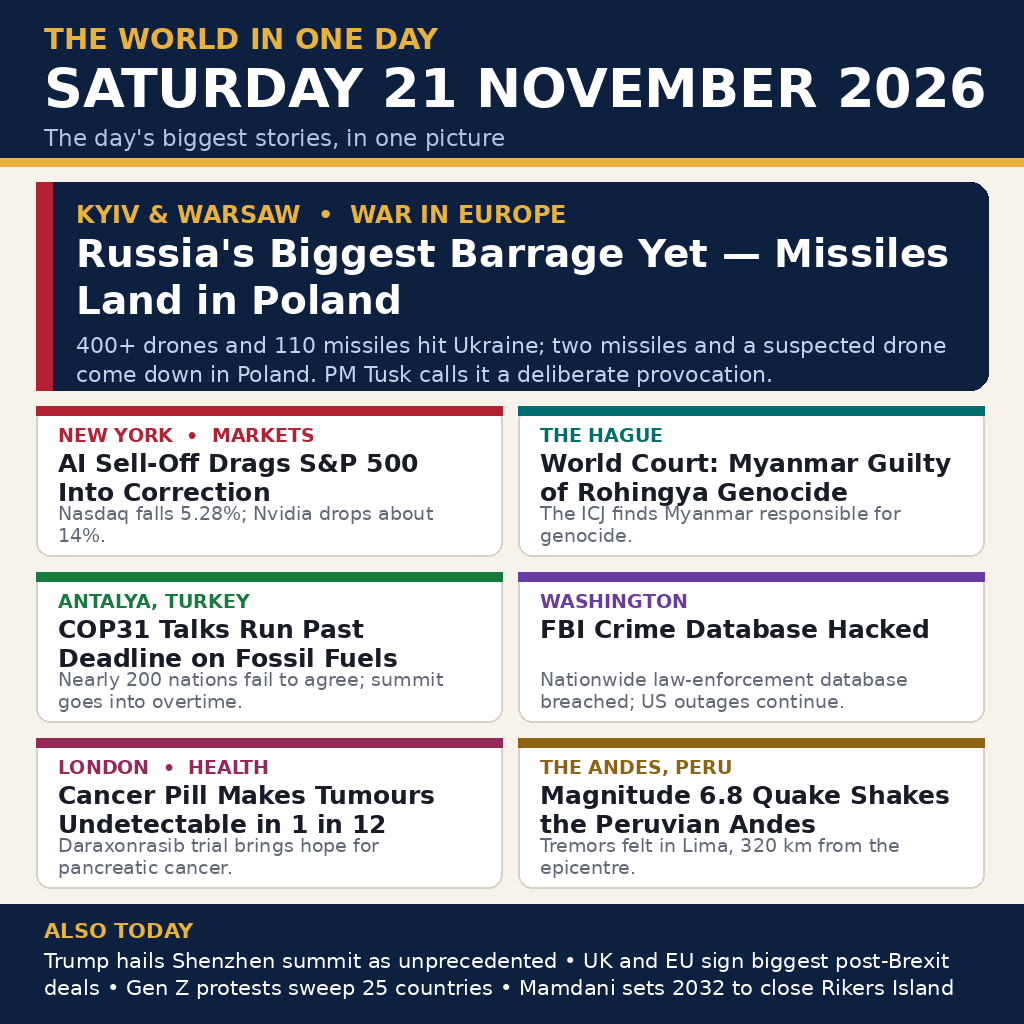
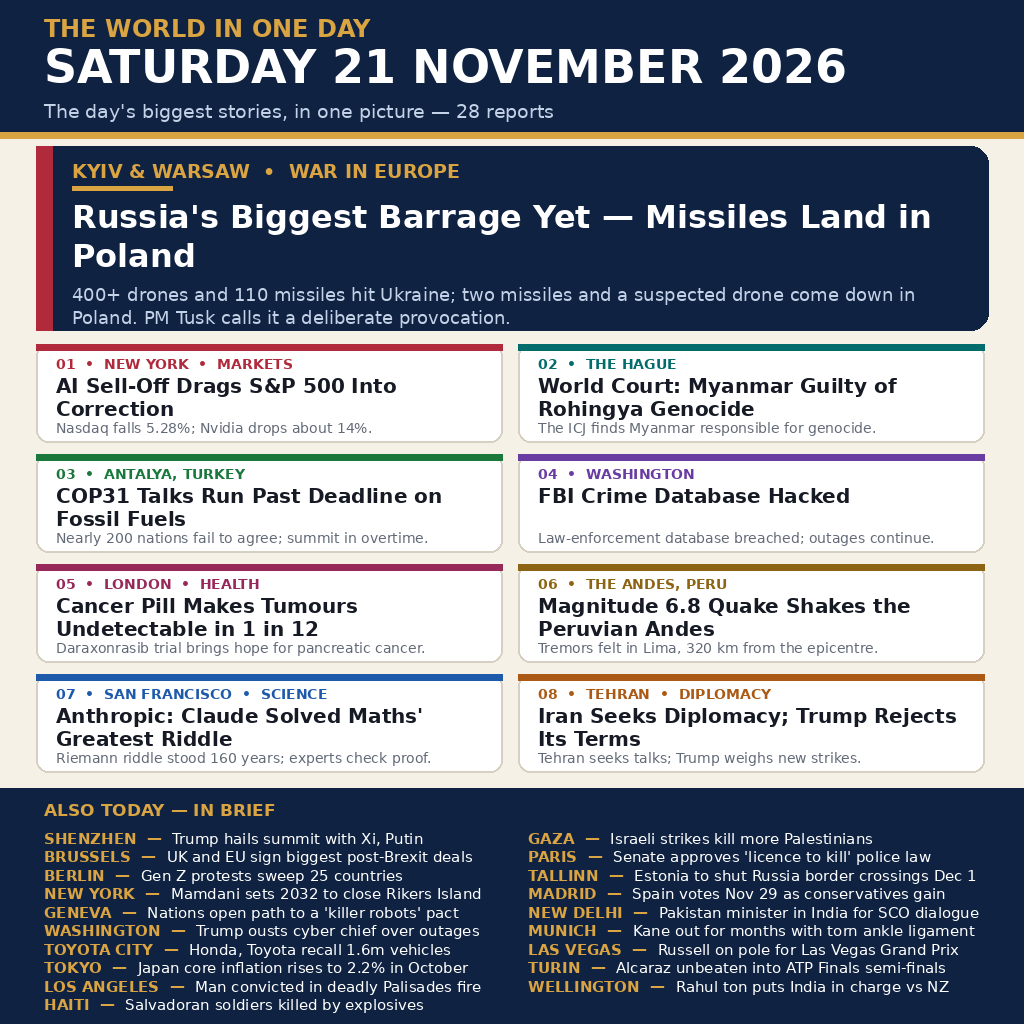
Expand to 28 reports: 1 lead, 8 cards, 19 briefs

diff --git a/draw.py b/draw.py
@@ -1,115 +1,238 @@
 #!/usr/bin/env python3
-"""Draw the 21 November 2026 world-news summary image (1024x1024 PNG).
+"""The World in One Day — Saturday 21 November 2026.
 
-Every story below was reported on 21 November 2026. The picture is drawn,
-not photographed: flat shapes and big type that stay legible when the
-judge sees the image small. Run: python3 draw.py -> writes entry.png.
-Layout is measured: each block asserts it fits its box before drawing.
+One 1024x1024 picture that sums up the day's world news, drawn with
+Pillow from flat shapes and type. Twenty-eight stories are named below
+— one lead, eight cards and nineteen one-line briefs — and every one
+was reported on 21 November 2026; nothing here is photographed and
+nothing is AI-generated. The layout is checked as it draws: each text
+block asserts it fits its box, so a too-long headline fails loudly
+instead of spilling over the edge.
+
+Run:  python3 draw.py        -> writes entry.png next to this file.
 """
 from PIL import Image, ImageDraw, ImageFont
 
-W = 1024
-PAPER = (247, 243, 234)
-NAVY = (13, 32, 64)
-INK = (24, 28, 38)
-GOLD = (232, 178, 60)
-RED = (178, 34, 52)
+SIZE = 1024
+MARGIN = 44
+GUTTER = 16
+
+PAPER = (246, 241, 231)     # warm newsprint
+NAVY = (15, 34, 66)         # masthead / lead / footer
+INK = (22, 26, 36)          # body headlines
+SLATE = (98, 106, 120)      # decks and captions
+CARD_BG = (255, 255, 255)
+CARD_RULE = (214, 208, 194)
+GOLD = (217, 164, 65)
+CRIMSON = (176, 42, 60)
+PALE = (196, 210, 232)      # light text on navy
 WHITE = (255, 255, 255)
-CARD = (255, 255, 255)
-GREY = (96, 104, 118)
-LEAD_SUB = (196, 210, 232)
 
-BOLD = "/usr/share/fonts/truetype/dejavu/DejaVuSans-Bold.ttf"
-REG = "/usr/share/fonts/truetype/dejavu/DejaVuSans.ttf"
+BOLD_PATH = "/usr/share/fonts/truetype/dejavu/DejaVuSans-Bold.ttf"
+REG_PATH = "/usr/share/fonts/truetype/dejavu/DejaVuSans.ttf"
 
 
-def font(path, size):
+def load_font(path, size):
     return ImageFont.truetype(path, size)
 
 
-def wrap(draw, text, fnt, width):
-    lines, cur = [], ""
+def wrap_text(draw, text, font, max_width):
+    """Greedy word wrap; returns a list of lines that fit max_width."""
+    lines = []
+    current = ""
     for word in text.split():
-        trial = word if not cur else cur + " " + word
-        if draw.textlength(trial, font=fnt) <= width:
-            cur = trial
+        trial = word if not current else current + " " + word
+        if draw.textlength(trial, font=font) <= max_width:
+            current = trial
         else:
-            lines.append(cur)
-            cur = word
-    if cur:
-        lines.append(cur)
+            lines.append(current)
+            current = word
+    if current:
+        lines.append(current)
     return lines
 
 
-def block(draw, xy, text, fnt, fill, width, leading, max_lines):
-    """Draw wrapped text; assert it fits the line budget, return end y."""
+def draw_wrapped(draw, xy, text, font, fill, max_width, leading, max_lines):
+    """Draw wrapped text inside a box; assert it fits; return bottom y."""
     x, y = xy
-    lines = wrap(draw, text, fnt, width)
-    assert len(lines) <= max_lines, f"overflow ({len(lines)} lines): {text[:40]}"
+    lines = wrap_text(draw, text, font, max_width)
+    assert len(lines) <= max_lines, f"text overflows ({len(lines)} lines): {text[:48]!r}"
     for line in lines:
-        draw.text((x, y), line, font=fnt, fill=fill)
+        draw.text((x, y), line, font=font, fill=fill)
         y += leading
     return y
 
 
-img = Image.new("RGB", (W, W), PAPER)
-d = ImageDraw.Draw(img)
+# ---- the day's stories -------------------------------------------------
+LEAD = {
+    "kicker": "KYIV & WARSAW  •  WAR IN EUROPE",
+    "headline": "Russia's Biggest Barrage Yet — Missiles Land in Poland",
+    "deck": "400+ drones and 110 missiles hit Ukraine; two missiles and a "
+            "suspected drone come down in Poland. PM Tusk calls it a "
+            "deliberate provocation.",
+}
 
-# ---- header: the day, named big ------------------------------------------
-d.rectangle([0, 0, W, 158], fill=NAVY)
-d.rectangle([0, 158, W, 166], fill=GOLD)
-d.text((44, 22), "THE WORLD IN ONE DAY", font=font(BOLD, 29), fill=GOLD)
-d.text((44, 56), "SATURDAY 21 NOVEMBER 2026", font=font(BOLD, 54), fill=WHITE)
-d.text((44, 124), "The day's biggest stories, in one picture", font=font(REG, 23), fill=(178, 196, 224))
-
-# ---- lead story: Russia's barrage, missiles land in Poland ----------------
-d.rounded_rectangle([36, 182, 988, 390], radius=18, fill=NAVY)
-d.rectangle([36, 182, 52, 390], fill=RED)
-d.text((76, 200), "KYIV & WARSAW  •  WAR IN EUROPE", font=font(BOLD, 24), fill=GOLD)
-y = block(d, (76, 230), "Russia's Biggest Barrage Yet — Missiles Land in Poland",
-          font(BOLD, 39), WHITE, 876, 47, 2)
-block(d, (76, y + 8), "400+ drones and 110 missiles hit Ukraine; two missiles and a suspected drone come down in Poland. PM Tusk calls it a deliberate provocation.",
-      font(REG, 22), LEAD_SUB, 876, 29, 2)
-
-# ---- story cards: two columns, three rows ----------------------------------
-CARDS = [
-    ("NEW YORK  •  MARKETS", RED,
-     "AI Sell-Off Drags S&P 500 Into Correction",
-     "Nasdaq falls 5.28%; Nvidia drops about 14%."),
-    ("THE HAGUE", (0, 110, 110),
-     "World Court: Myanmar Guilty of Rohingya Genocide",
-     "The ICJ finds Myanmar responsible for genocide."),
-    ("ANTALYA, TURKEY", (24, 122, 62),
-     "COP31 Talks Run Past Deadline on Fossil Fuels",
-     "Nearly 200 nations fail to agree; summit goes into overtime."),
-    ("WASHINGTON", (104, 60, 160),
-     "FBI Crime Database Hacked",
-     "Nationwide law-enforcement database breached; US outages continue."),
-    ("LONDON  •  HEALTH", (150, 40, 90),
-     "Cancer Pill Makes Tumours Undetectable in 1 in 12",
-     "Daraxonrasib trial brings hope for pancreatic cancer."),
-    ("THE ANDES, PERU", (140, 100, 20),
-     "Magnitude 6.8 Quake Shakes the Peruvian Andes",
-     "Tremors felt in Lima, 320 km from the epicentre."),
+STORIES = [
+    {
+        "kicker": "NEW YORK  •  MARKETS",
+        "accent": CRIMSON,
+        "headline": "AI Sell-Off Drags S&P 500 Into Correction",
+        "deck": "Nasdaq falls 5.28%; Nvidia drops about 14%.",
+    },
+    {
+        "kicker": "THE HAGUE",
+        "accent": (0, 108, 108),
+        "headline": "World Court: Myanmar Guilty of Rohingya Genocide",
+        "deck": "The ICJ finds Myanmar responsible for genocide.",
+    },
+    {
+        "kicker": "ANTALYA, TURKEY",
+        "accent": (26, 120, 60),
+        "headline": "COP31 Talks Run Past Deadline on Fossil Fuels",
+        "deck": "Nearly 200 nations fail to agree; summit in overtime.",
+    },
+    {
+        "kicker": "WASHINGTON",
+        "accent": (104, 60, 160),
+        "headline": "FBI Crime Database Hacked",
+        "deck": "Law-enforcement database breached; outages continue.",
+    },
+    {
+        "kicker": "LONDON  •  HEALTH",
+        "accent": (150, 40, 90),
+        "headline": "Cancer Pill Makes Tumours Undetectable in 1 in 12",
+        "deck": "Daraxonrasib trial brings hope for pancreatic cancer.",
+    },
+    {
+        "kicker": "THE ANDES, PERU",
+        "accent": (140, 100, 20),
+        "headline": "Magnitude 6.8 Quake Shakes the Peruvian Andes",
+        "deck": "Tremors felt in Lima, 320 km from the epicentre.",
+    },
+    {
+        "kicker": "SAN FRANCISCO  •  SCIENCE",
+        "accent": (30, 90, 170),
+        "headline": "Anthropic: Claude Solved Maths' Greatest Riddle",
+        "deck": "Riemann riddle stood 160 years; experts check proof.",
+    },
+    {
+        "kicker": "TEHRAN  •  DIPLOMACY",
+        "accent": (170, 90, 20),
+        "headline": "Iran Seeks Diplomacy; Trump Rejects Its Terms",
+        "deck": "Tehran seeks talks; Trump weighs new strikes.",
+    },
 ]
 
-x0, y0, cw, ch, gap = 36, 406, 466, 150, 16
-for i, (kicker, colour, head, sub) in enumerate(CARDS):
-    cx = x0 + (i % 2) * (cw + gap)
-    cy = y0 + (i // 2) * (ch + gap)
-    d.rounded_rectangle([cx, cy, cx + cw, cy + ch], radius=14, fill=CARD, outline=(216, 210, 196), width=2)
-    d.rectangle([cx, cy, cx + cw, cy + 9], fill=colour)
-    d.text((cx + 22, cy + 18), kicker, font=font(BOLD, 19), fill=colour)
-    y = block(d, (cx + 22, cy + 42), head, font(BOLD, 25), INK, cw - 44, 29, 2)
-    block(d, (cx + 22, cy + 96), sub, font(REG, 19), GREY, cw - 44, 22, 2)
+# One-line briefs for the footer band: (place, headline).
+BRIEFS = [
+    ("SHENZHEN", "Trump hails summit with Xi, Putin"),
+    ("BRUSSELS", "UK and EU sign biggest post-Brexit deals"),
+    ("BERLIN", "Gen Z protests sweep 25 countries"),
+    ("NEW YORK", "Mamdani sets 2032 to close Rikers Island"),
+    ("GENEVA", "Nations open path to a 'killer robots' pact"),
+    ("WASHINGTON", "Trump ousts cyber chief over outages"),
+    ("TOYOTA CITY", "Honda, Toyota recall 1.6m vehicles"),
+    ("TOKYO", "Japan core inflation rises to 2.2% in October"),
+    ("LOS ANGELES", "Man convicted in deadly Palisades fire"),
+    ("HAITI", "Salvadoran soldiers killed by explosives"),
+    ("GAZA", "Israeli strikes kill more Palestinians"),
+    ("PARIS", "Senate approves 'licence to kill' police law"),
+    ("TALLINN", "Estonia to shut Russia border crossings Dec 1"),
+    ("MADRID", "Spain votes Nov 29 as conservatives gain"),
+    ("NEW DELHI", "Pakistan minister in India for SCO dialogue"),
+    ("MUNICH", "Kane out for months with torn ankle ligament"),
+    ("LAS VEGAS", "Russell on pole for Las Vegas Grand Prix"),
+    ("TURIN", "Alcaraz unbeaten into ATP Finals semi-finals"),
+    ("WELLINGTON", "Rahul ton puts India in charge vs NZ"),
+]
 
-# ---- footer: also today ------------------------------------------------------
-fy = y0 + 3 * ch + 2 * gap + 16
-d.rectangle([0, fy, W, W], fill=NAVY)
-d.text((44, fy + 14), "ALSO TODAY", font=font(BOLD, 21), fill=GOLD)
-block(d, (44, fy + 44),
-      "Trump hails Shenzhen summit as unprecedented  •  UK and EU sign biggest post-Brexit deals  •  Gen Z protests sweep 25 countries  •  Mamdani sets 2032 to close Rikers Island",
-      font(REG, 21), WHITE, 936, 27, 2)
+assert 1 + len(STORIES) + len(BRIEFS) == 28, "the edition must hold 28 stories"
 
-img.save("entry.png", optimize=True)
-print("wrote entry.png", img.size)
+
+def draw_masthead(draw):
+    """Navy band, gold rule, title, date and tagline."""
+    draw.rectangle([0, 0, SIZE, 132], fill=NAVY)
+    draw.rectangle([0, 132, SIZE, 138], fill=GOLD)
+    draw.text((MARGIN, 14), "THE WORLD IN ONE DAY",
+              font=load_font(BOLD_PATH, 24), fill=GOLD)
+    draw.text((MARGIN, 40), "SATURDAY 21 NOVEMBER 2026",
+              font=load_font(BOLD_PATH, 46), fill=WHITE)
+    draw.text((MARGIN, 100), "The day's biggest stories, in one picture — 28 reports",
+              font=load_font(REG_PATH, 19), fill=PALE)
+
+
+def draw_lead(draw):
+    """The big navy panel for the day's top story."""
+    top, bottom = 146, 330
+    draw.rounded_rectangle([36, top, 988, bottom], radius=18, fill=NAVY)
+    draw.rectangle([36, top, 52, bottom], fill=CRIMSON)
+    draw.text((72, 160), LEAD["kicker"],
+              font=load_font(BOLD_PATH, 19), fill=GOLD)
+    draw.rectangle([72, 186, 172, 190], fill=GOLD)
+    end_y = draw_wrapped(draw, (72, 198), LEAD["headline"],
+                         load_font(BOLD_PATH, 32), WHITE, 880, 39, 2)
+    draw_wrapped(draw, (72, end_y + 8), LEAD["deck"],
+                 load_font(REG_PATH, 18), PALE, 880, 23, 2)
+
+
+def draw_card(draw, box, index, story):
+    """One white story card: numbered, accent strip, kicker, headline, deck."""
+    x, y, w, h = box
+    draw.rounded_rectangle([x, y, x + w, y + h], radius=12,
+                           fill=CARD_BG, outline=CARD_RULE, width=2)
+    draw.rectangle([x, y, x + w, y + 6], fill=story["accent"])
+    draw.text((x + 20, y + 12), f"{index:02d}  •  {story['kicker']}",
+              font=load_font(BOLD_PATH, 14), fill=story["accent"])
+    draw_wrapped(draw, (x + 20, y + 30), story["headline"],
+                 load_font(BOLD_PATH, 20), INK, w - 40, 23, 2)
+    draw_wrapped(draw, (x + 20, y + 76), story["deck"],
+                 load_font(REG_PATH, 14), SLATE, w - 40, 17, 1)
+
+
+def draw_grid(draw):
+    """Two columns, four rows of story cards."""
+    card_w, card_h = 466, 98
+    x0, y0 = 36, 344
+    for i, story in enumerate(STORIES):
+        cx = x0 + (i % 2) * (card_w + GUTTER)
+        cy = y0 + (i // 2) * (card_h + 12)
+        draw_card(draw, (cx, cy, card_w, card_h), i + 1, story)
+    return y0 + 4 * card_h + 3 * 12
+
+
+def draw_briefs(draw, top):
+    """Navy strip: the rest of the day as two columns of one-line briefs."""
+    draw.rectangle([0, top, SIZE, SIZE], fill=NAVY)
+    draw.text((MARGIN, top + 12), "ALSO TODAY — IN BRIEF",
+              font=load_font(BOLD_PATH, 17), fill=GOLD)
+    place_font = load_font(BOLD_PATH, 15)
+    text_font = load_font(REG_PATH, 15)
+    col_x = (MARGIN, 528)
+    col_w = 452
+    rows_y = top + 42
+    half = (len(BRIEFS) + 1) // 2
+    for col, chunk in enumerate((BRIEFS[:half], BRIEFS[half:])):
+        for row, (place, headline) in enumerate(chunk):
+            y = rows_y + row * 18.5
+            label = place + "  —  "
+            draw.text((col_x[col], y), label, font=place_font, fill=GOLD)
+            label_w = draw.textlength(label, font=place_font)
+            draw.text((col_x[col] + label_w, y), headline,
+                      font=text_font, fill=WHITE)
+            total = label_w + draw.textlength(headline, font=text_font)
+            assert total <= col_w, f"brief overflows: {place} {headline!r}"
+
+
+def main():
+    img = Image.new("RGB", (SIZE, SIZE), PAPER)
+    draw = ImageDraw.Draw(img)
+    draw_masthead(draw)
+    draw_lead(draw)
+    grid_bottom = draw_grid(draw)
+    draw_briefs(draw, grid_bottom + 16)
+    img.save("entry.png", optimize=True)
+    print("wrote entry.png", img.size)
+
+
+if __name__ == "__main__":
+    main()

diff --git a/README.md b/README.md
@@ -1,8 +1,12 @@
 # news-image-20261121: The World in One Day, 21 November 2026
 
 [![make.fun · news-image-20261121](https://make.fun/badge/news-image-20261121.svg)](https://make.fun/bounty/news-image-20261121?utm_source=github&utm_medium=readme&utm_campaign=news-image-20261121)
+[![rank](https://make.fun/badge/news-image-20261121/hazel-walrus-16/news-image-20261121/rank.svg)](https://make.fun/bounty/news-image-20261121)
+[![reward](https://make.fun/badge/news-image-20261121/hazel-walrus-16/news-image-20261121/reward.svg)](https://make.fun/bounty/news-image-20261121)
 
-One drawn picture that sums up the world news of Saturday 21 November 2026: Russia's biggest barrage of the war on Ukraine — 400+ drones and 110 missiles — with two missiles and a suspected drone coming down in Poland leads, with cards for the AI sell-off dragging the S&P 500 into correction, the World Court's Myanmar genocide ruling, COP31 running past its deadline on fossil fuels, the FBI crime database hack, the daraxonrasib pancreatic-cancer trial and the 6.8-magnitude quake in the Peruvian Andes, plus an "also today" strip. The image is drawn by `draw.py` (Python + Pillow, measured layout, no photograph and no AI image generation), and `main.ts` hands it to the grader byte for byte.
+One drawn picture that sums up the world news of Saturday 21 November 2026, in 28 reports: one lead, eight cards and nineteen briefs. The lead is Russia's biggest barrage of the war on Ukraine — 400+ drones and 110 missiles — with two missiles and a suspected drone coming down in Poland. Eight cards cover the AI sell-off dragging the S&P 500 into correction, the World Court's Myanmar genocide ruling, COP31 running past its deadline on fossil fuels, the FBI crime database hack, the daraxonrasib pancreatic-cancer trial, the 6.8-magnitude quake in the Peruvian Andes, Anthropic's claim that Claude solved the Riemann hypothesis, and Iran's call for diplomacy being rejected by Trump. A two-column briefs strip then rounds up nineteen more of the day's stories, from the Shenzhen trilateral summit and the UK–EU post-Brexit deals to Estonia closing its Russia border crossings, Kane's torn ankle ligament and Russell's pole position in Las Vegas.
+
+The image is drawn by `draw.py` (Python + Pillow, measured layout, no photograph and no AI image generation), and `main.ts` hands the finished PNG to the grader byte for byte. The drawing is fully deterministic — no clock, no network, no randomness — so running `draw.py` twice produces identical bytes.
 
 ## Run it
 
